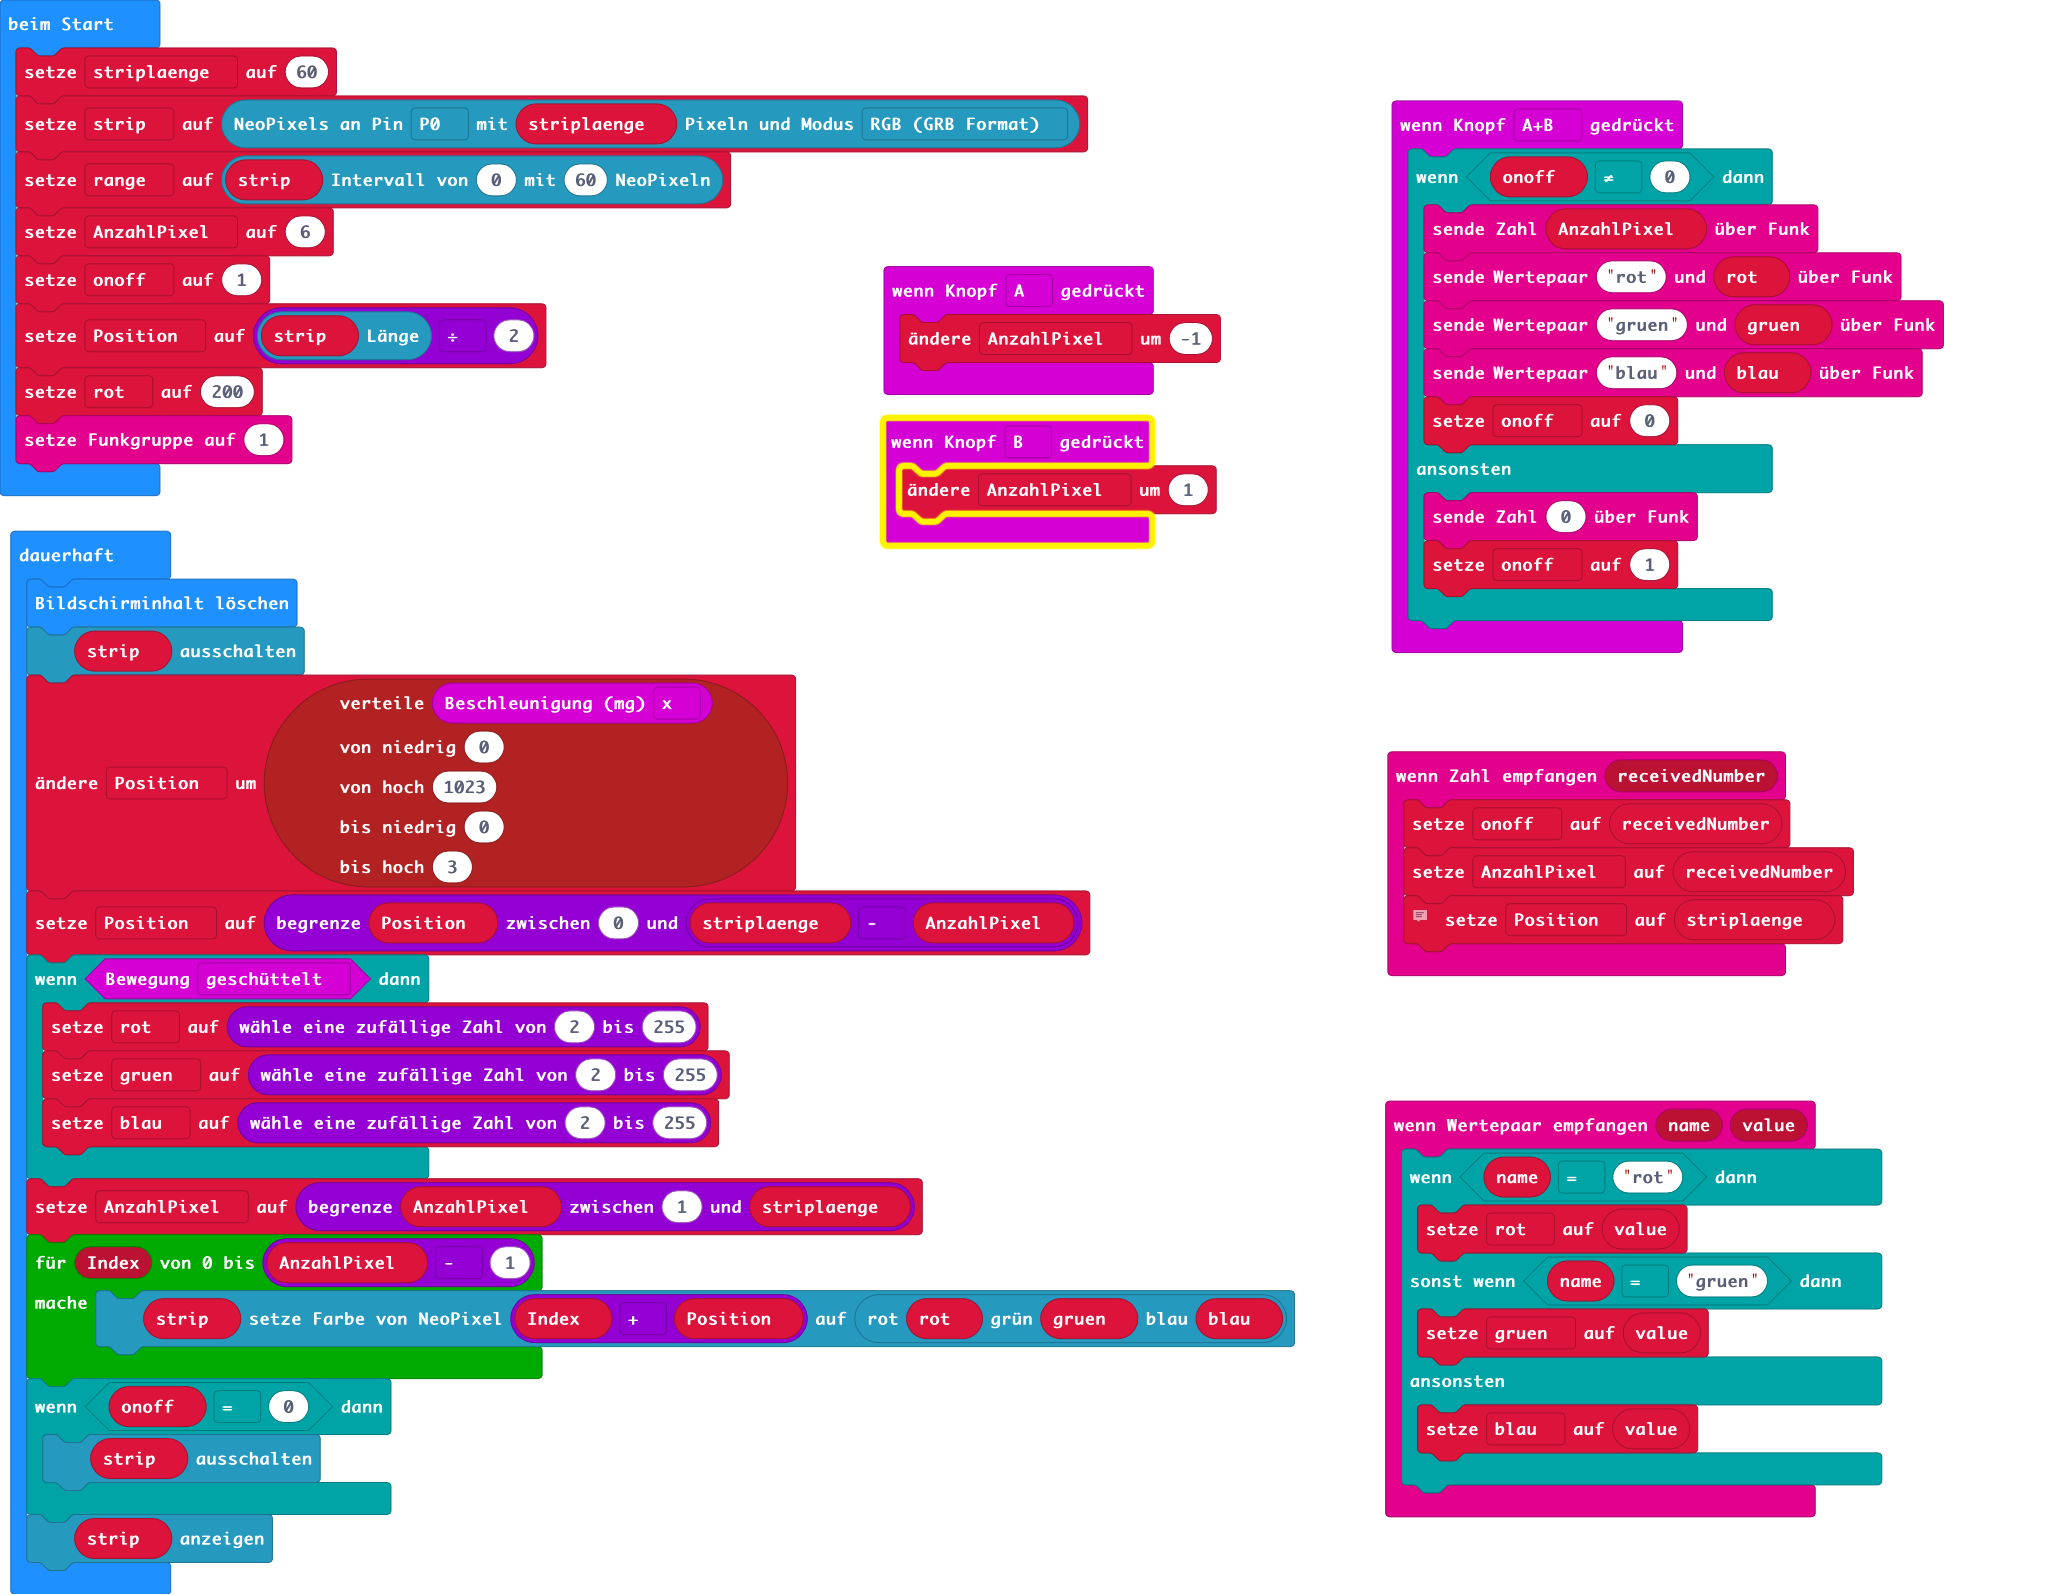
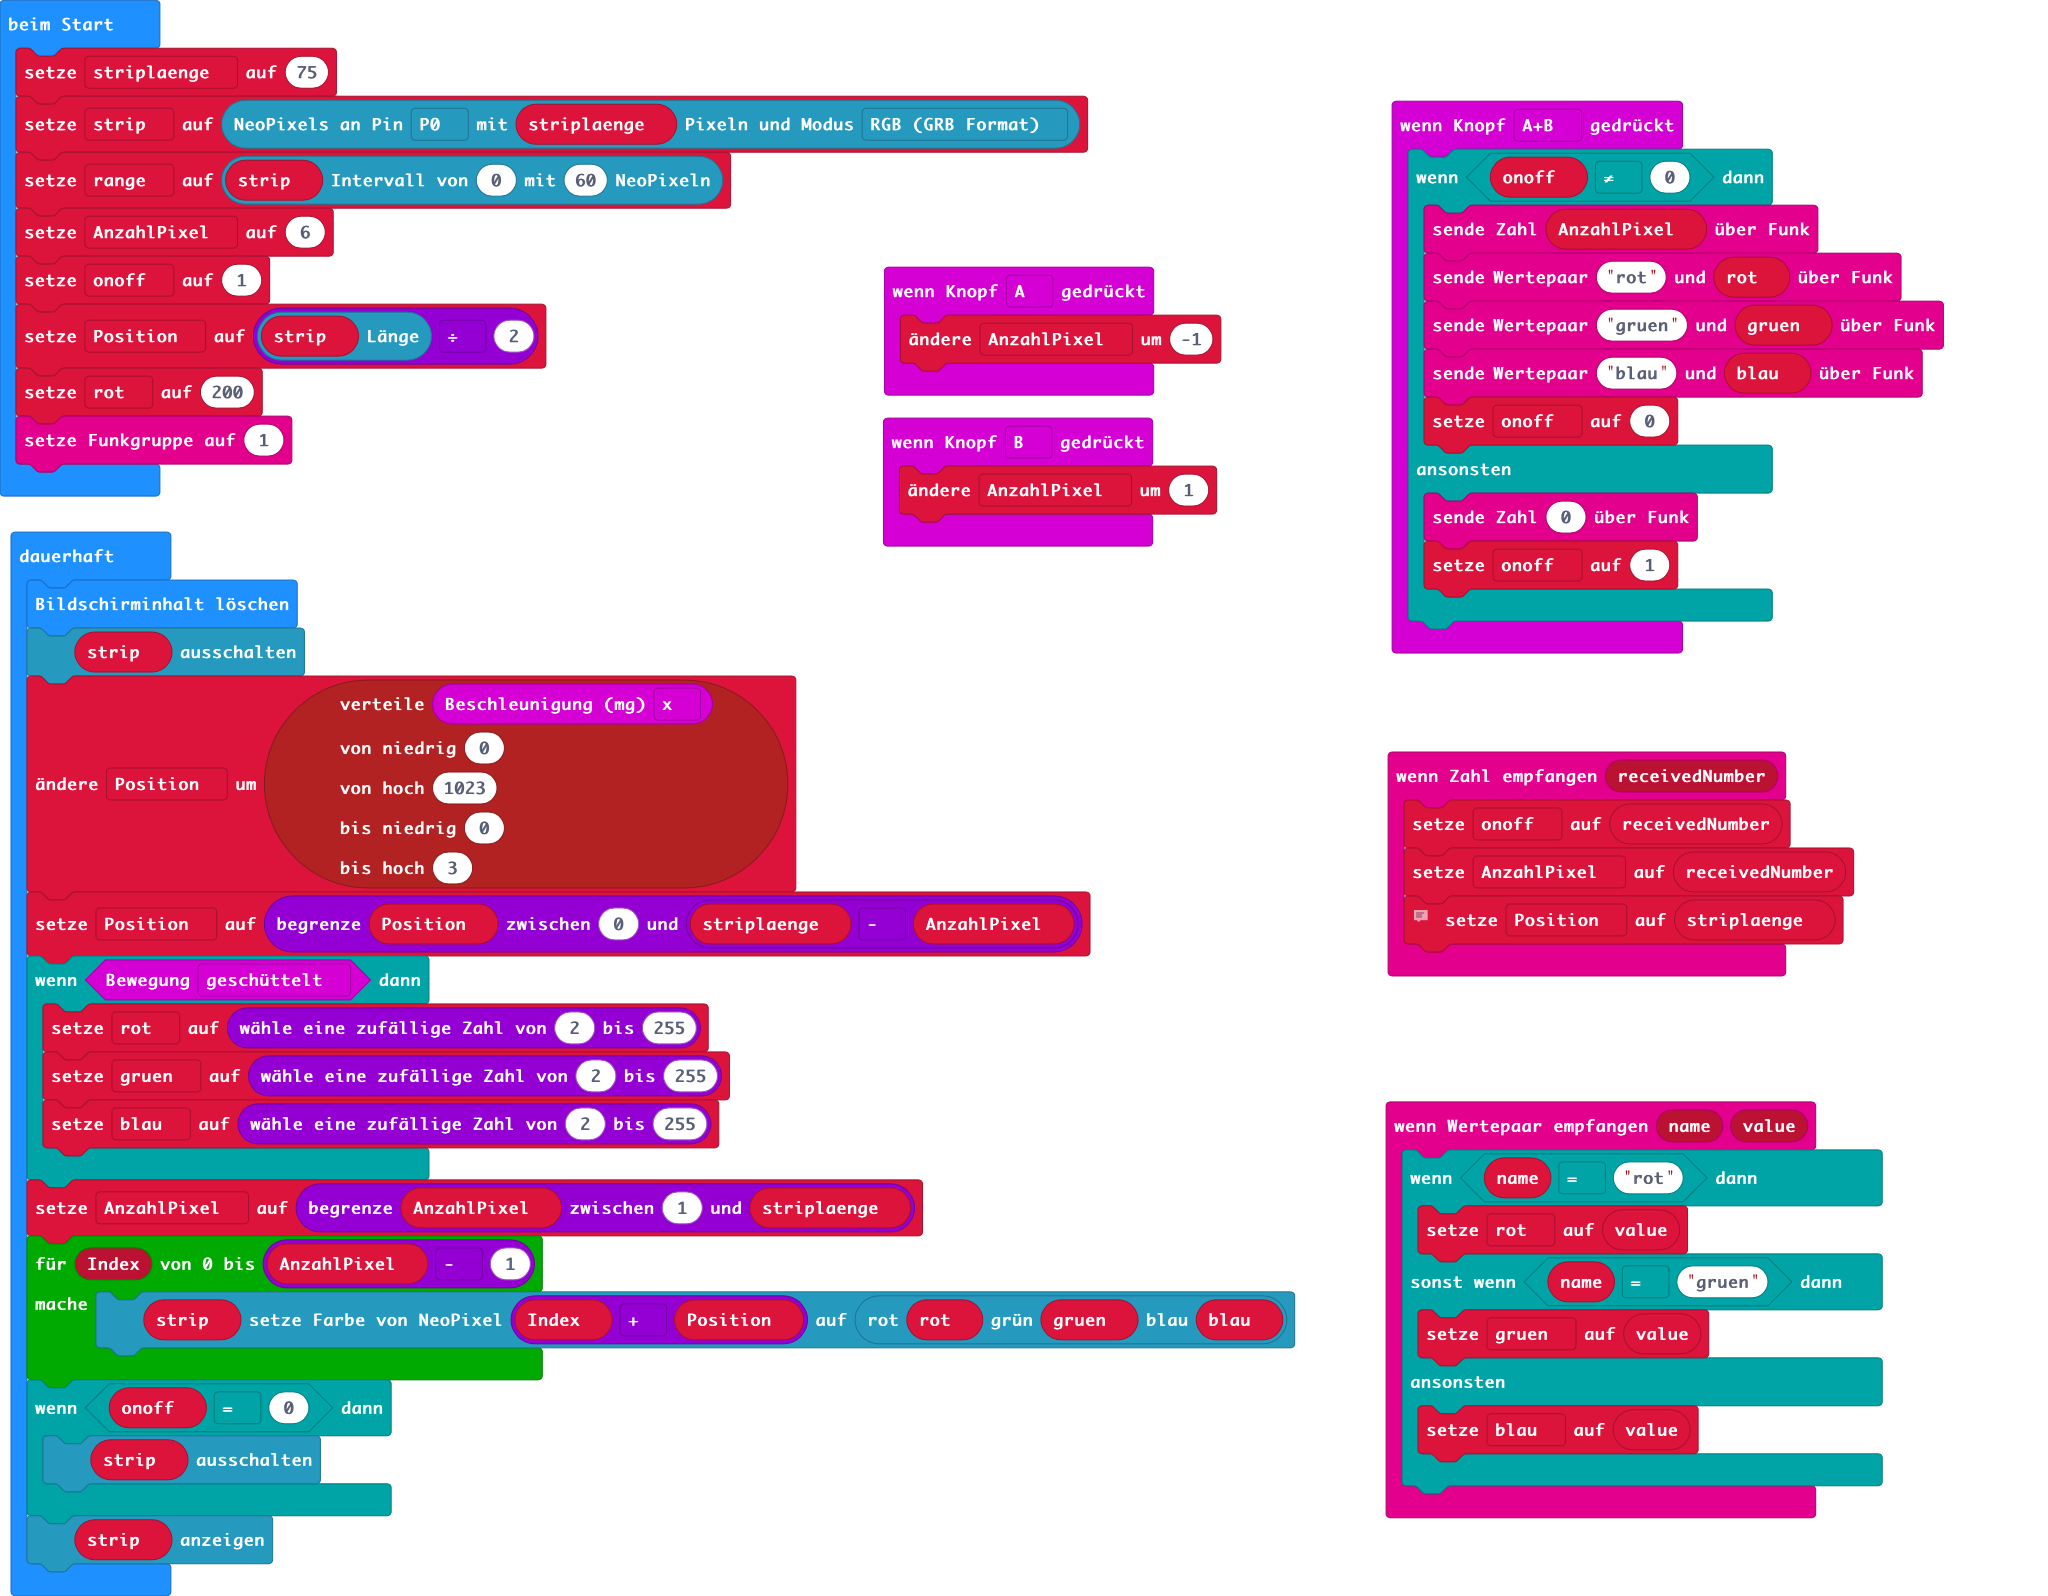
75 Pixel

diff --git a/main.ts b/main.ts
@@ -38,7 +38,7 @@ let Position = 0
 let onoff = 0
 let AnzahlPixel = 0
 let striplaenge = 0
-striplaenge = 60
+striplaenge = 75
 let strip = neopixel.create(DigitalPin.P0, striplaenge, NeoPixelMode.RGB)
 let range = strip.range(0, 60)
 AnzahlPixel = 6
